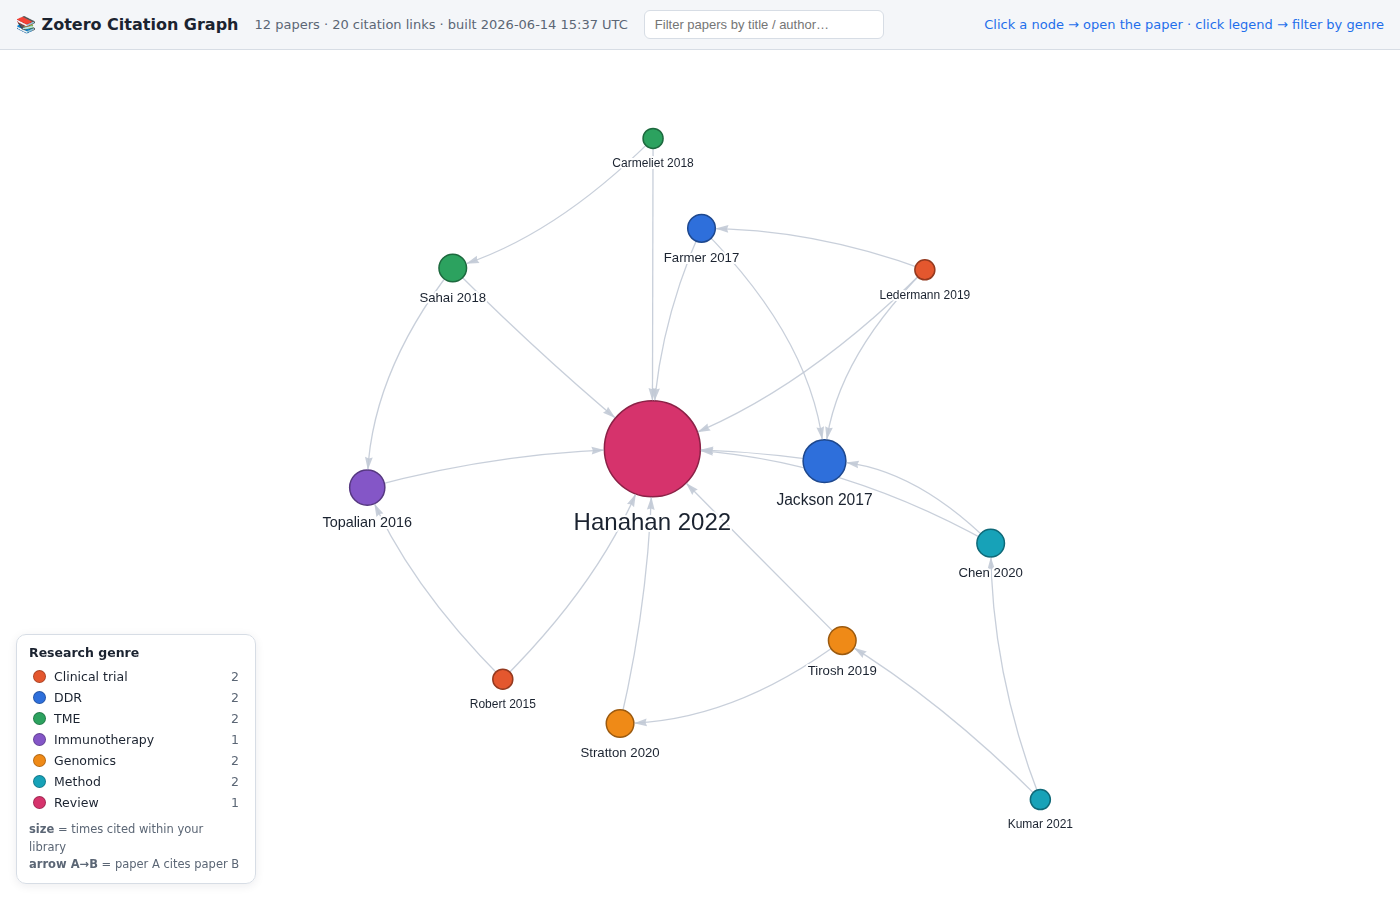
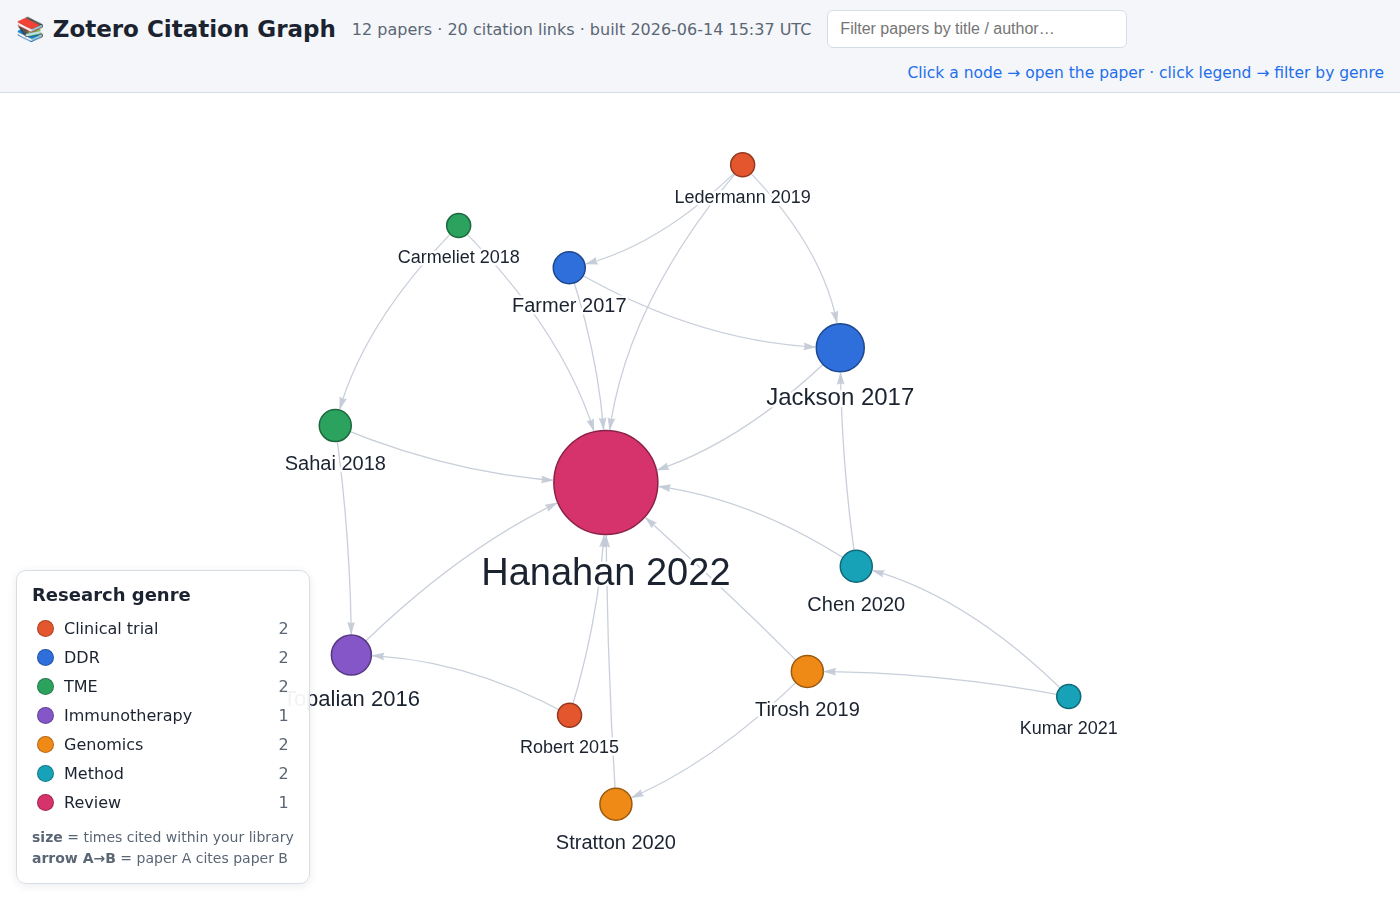
Increase font sizes across the viewer for readability
Bump UI and graph text ~1.4-1.5x: node labels 14->20px (scaling cap
24->38px), header title 16->23px, stats/hint/search ~13->16px, legend
12.5->16px (title 18px, larger swatches), tooltip 13->16px.

https://claude.ai/code/session_016mgMTU6iwb49Rf9iZ3p4AG

diff --git a/zotero-citation-graph/index.html b/zotero-citation-graph/index.html
@@ -15,24 +15,24 @@
   #app { display:flex; flex-direction:column; height:100vh; }
   header { padding:10px 16px; border-bottom:1px solid var(--line); background:var(--panel);
     display:flex; align-items:center; gap:16px; flex-wrap:wrap; }
-  header h1 { font-size:16px; margin:0; font-weight:650; }
-  header .stats { color:var(--muted); font-size:13px; }
-  header .hint { color:var(--accent); font-size:13px; margin-left:auto; }
+  header h1 { font-size:23px; margin:0; font-weight:700; }
+  header .stats { color:var(--muted); font-size:16px; }
+  header .hint { color:var(--accent); font-size:15.5px; margin-left:auto; }
   #search { background:#fff; border:1px solid var(--line); color:var(--ink);
-    border-radius:6px; padding:6px 10px; font-size:13px; width:240px; }
+    border-radius:6px; padding:9px 12px; font-size:16px; width:300px; }
   #net { flex:1; min-height:0; background:#ffffff; }
   .legend { position:absolute; left:16px; bottom:16px; background:rgba(255,255,255,.94);
-    border:1px solid var(--line); border-radius:10px; padding:10px 12px; font-size:12.5px;
-    color:var(--ink); box-shadow:0 2px 10px rgba(20,30,50,.08); max-width:240px; }
-  .legend .t { font-weight:650; margin-bottom:6px; }
-  .legend .row { display:flex; align-items:center; gap:8px; padding:3px 4px; border-radius:6px;
+    border:1px solid var(--line); border-radius:10px; padding:13px 15px; font-size:16px;
+    color:var(--ink); box-shadow:0 2px 10px rgba(20,30,50,.08); max-width:320px; }
+  .legend .t { font-weight:700; font-size:18px; margin-bottom:9px; }
+  .legend .row { display:flex; align-items:center; gap:10px; padding:5px 5px; border-radius:6px;
     cursor:pointer; }
   .legend .row:hover { background:#eef2f7; }
   .legend .row.off { opacity:.38; }
-  .legend .swatch { width:13px; height:13px; border-radius:50%; flex:0 0 auto;
+  .legend .swatch { width:17px; height:17px; border-radius:50%; flex:0 0 auto;
     border:1px solid rgba(0,0,0,.25); }
   .legend .count { color:var(--muted); margin-left:auto; }
-  .legend .note { color:var(--muted); margin-top:8px; font-size:11.5px; line-height:1.5; }
+  .legend .note { color:var(--muted); margin-top:10px; font-size:14px; line-height:1.55; }
   #empty { margin:auto; max-width:560px; padding:40px; text-align:center; color:var(--muted); }
   code { background:#eef2f7; border:1px solid var(--line); border-radius:4px; padding:1px 5px;
     color:var(--ink); }
@@ -77,7 +77,7 @@
   }
   function tooltip(n) {
     const el = document.createElement("div");
-    el.style.maxWidth = "320px"; el.style.font = "13px system-ui, sans-serif";
+    el.style.maxWidth = "400px"; el.style.font = "16px system-ui, sans-serif";
     el.innerHTML =
       "<b>" + esc(n.title) + "</b><br>" +
       "<span style='color:#5b6675'>" + esc(n.authors || "") +
@@ -94,13 +94,13 @@
     title: tooltip(n),
     color: { background: n.color, border: darken(n.color, 0.65),
              highlight: { background: n.color, border: "#1b2330" } },
-    font: { color: "#1b2330", size: 14, strokeWidth: 4, strokeColor: "#ffffff" },
+    font: { color: "#1b2330", size: 20, strokeWidth: 5, strokeColor: "#ffffff" },
   })));
   const edges = new vis.DataSet(G.edges.map(e => ({ from: e.from, to: e.to, arrows: "to" })));
 
   const network = new vis.Network(host, { nodes, edges }, {
     nodes: { shape: "dot", borderWidth: 1.5,
-      scaling: { min: 10, max: 48, label: { enabled: true, min: 12, max: 24 } } },
+      scaling: { min: 12, max: 52, label: { enabled: true, min: 18, max: 38 } } },
     edges: { color: { color: "#c2cad6", highlight: "#6b7686", opacity: 0.9 },
       width: 1.3, smooth: { type: "continuous" }, arrows: { to: { scaleFactor: 0.6 } } },
     physics: { barnesHut: { gravitationalConstant: -12000, centralGravity: 0.25,
